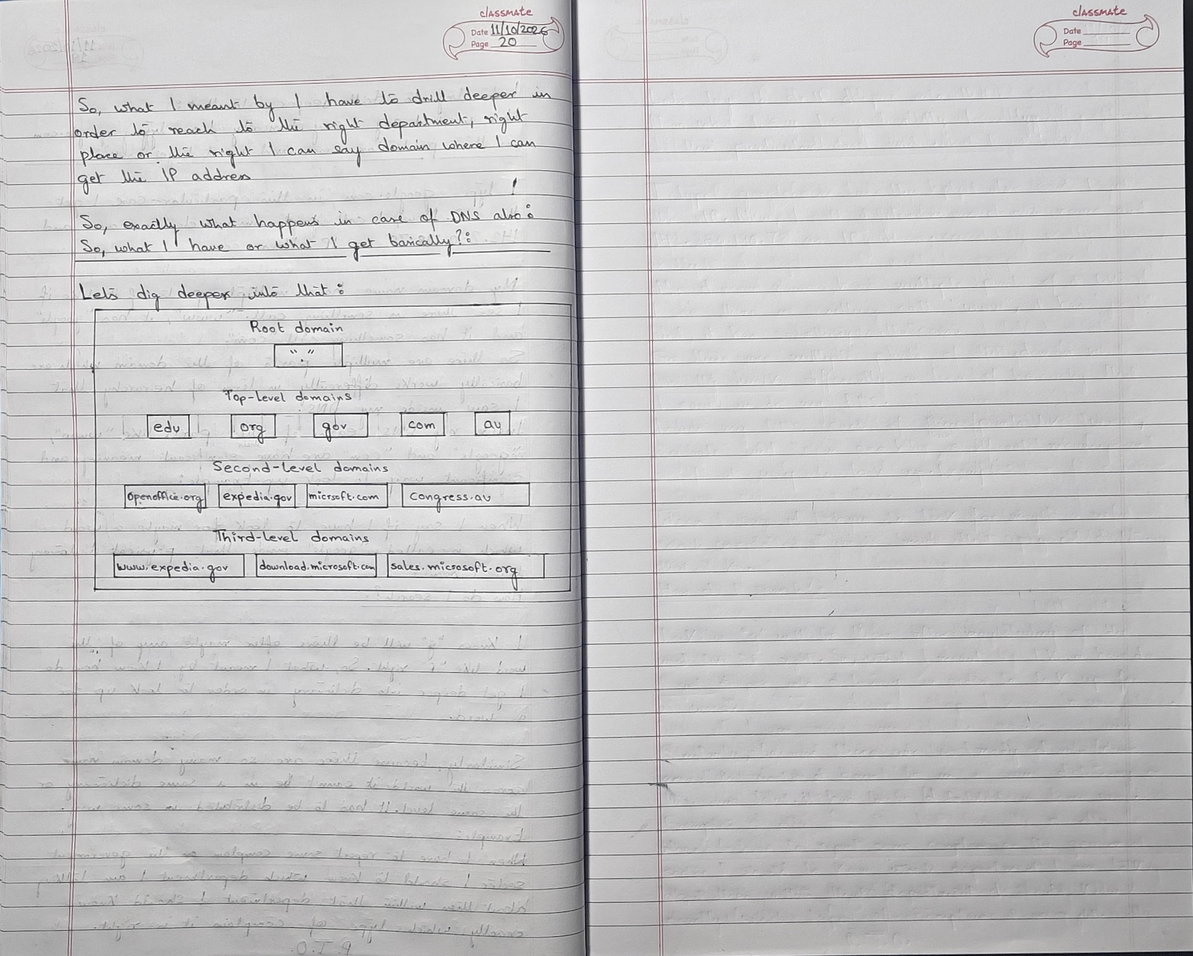
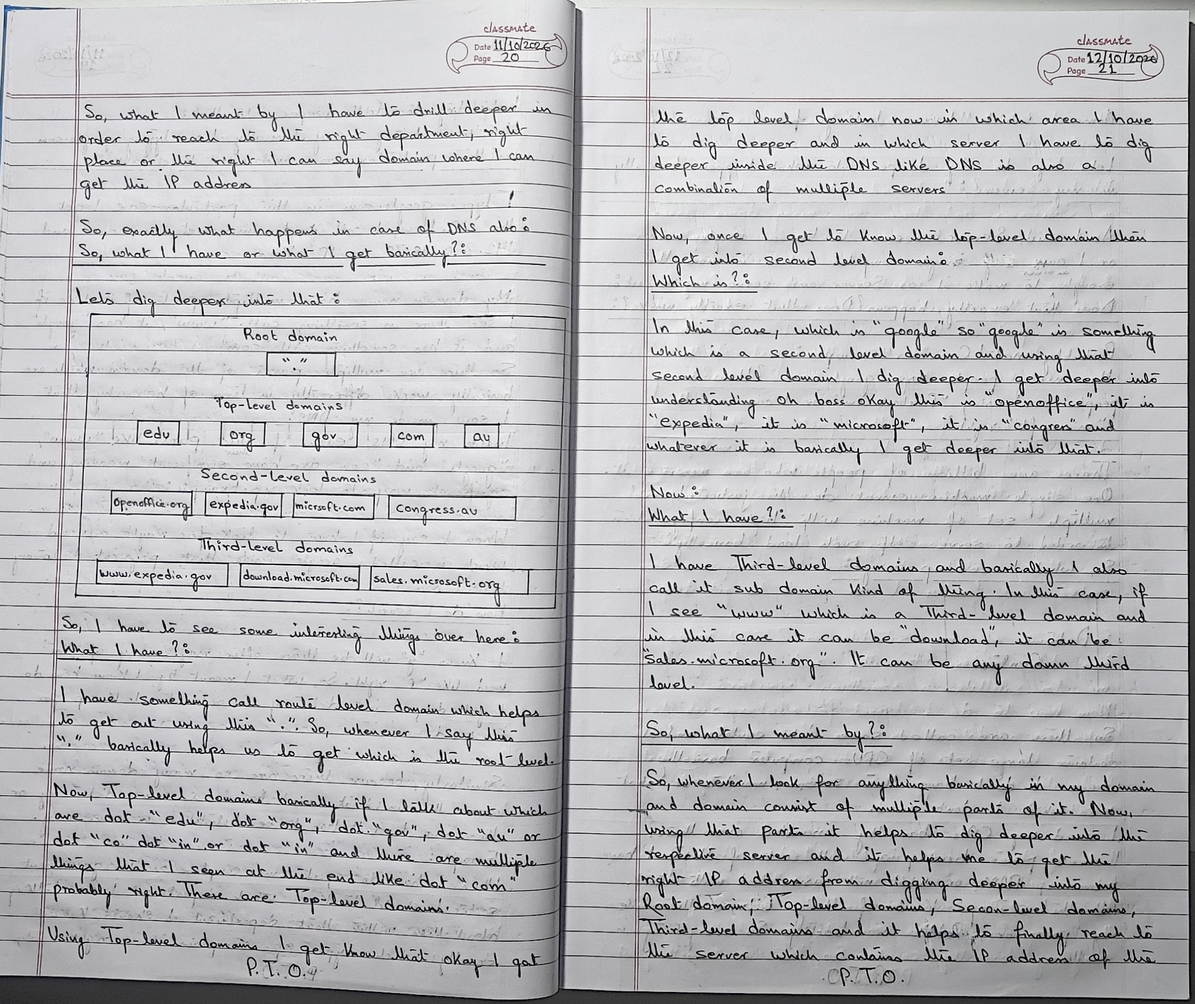
Expand web networking notes and add scans
Document DNS hierarchy, data centers, request routing, and satellite communication. Add numbered note scans and remove the original timestamp-named images.

Changed region(s): [[0.0, 0.0, 1.0, 1.0]]

diff --git a/src/networking/how-the-web-works/README.md b/src/networking/how-the-web-works/README.md
@@ -574,3 +574,214 @@ Third-level domains
 ```
 
 The handwritten diagram groups these names by **root domain**, **top-level domains**, **second-level domains**, and **third-level domains**. Examples are reproduced as written in the notebook.
+
+### Reaching the right domain
+
+So, what I meant by “drill deeper” is that, in order to reach the right department, the right place, or the right domain, I need to find the IP address.
+
+Exactly what happens in the case of DNS? What do I have, or what do I get?
+
+Let’s dig deeper into that.
+
+### DNS domain hierarchy diagram
+
+```text
+Root domain
+    "."
+     |
+     v
+Top-level domains
+  .edu   .org   .gov   .com   .au
+     |
+     v
+Second-level domains
+ openoffice.org   expedia.gov   microsoft.com   congress.au
+     |
+     v
+Third-level domains
+ www.expedia.gov   download.microsoft.com   sales.microsoft.org
+```
+
+### Root-level domain
+
+I have something called a **root-level domain**, represented by `"."`. It helps us get out to the root level. Whenever I refer to `"."`, it basically represents the root level.
+
+### Top-level domains (TLDs)
+
+Top-level domains are the endings I see in domain names, such as:
+
+- `.edu`
+- `.org`
+- `.gov`
+- `.au`
+- `.co`
+- `.in`
+- `.com`
+
+There are many such top-level domains.
+
+Using a top-level domain helps me understand where to dig deeper next and which server or part of DNS I need to query. DNS is also a combination of multiple servers.
+
+The top-level domain tells me which area I have to dig deeper into and which server I need to query inside DNS. DNS itself is also a combination of multiple servers.
+
+### Second-level domain
+
+Once I know the top-level domain, I get into the **second-level domain**.
+
+For example, in `google.com`, `google` is the second-level domain.
+
+Other examples mentioned in the notes include:
+
+- `openoffice.org`
+- `expedia.gov`
+- `microsoft.com`
+- `congress.au`
+
+The notes use `google` as an example of a second-level domain and explain that going into the second-level domain means digging deeper to understand the relevant part.
+
+### Third-level domain (subdomain)
+
+I also have **third-level domains**, which I can call subdomains.
+
+Examples shown in the notes:
+
+- `www.expedia.gov`
+- `download.microsoft.com`
+- `sales.microsoft.org`
+
+In these examples, `www`, `download`, and `sales` are third-level domain labels (subdomains).
+
+A domain can have a third-level label; it is not limited to only one possible third-level name.
+
+### What this hierarchy means
+
+Whenever I look for something in a domain, the domain consists of multiple parts. Using those parts helps me dig deeper into the respective server and eventually reach the right IP address.
+
+The hierarchy described in the notes is:
+
+1. Root domain
+2. Top-level domain
+3. Second-level domain
+4. Third-level domain
+
+This helps me finally reach the server that contains the IP address for the domain I am looking for.
+
+Let’s dig deeper into what happens inside a server.
+
+A server seems to be a single server, or I can say a single computer which is more than enough to handle requests. Does a server exactly work like that?
+
+Probably not.
+
+### Example: Popular websites
+
+Consider these questions:
+
+- How many people use `google.com`?
+- How many people use `facebook.com`?
+- How many people use Microsoft services?
+
+There are billions of people accessing these services. One single machine cannot do them justice. I need multiple machines, with high configurations, to serve that load.
+
+### Data centers
+
+```text
++------------------+
+|   Data Centers   |
++------------------+
+  Many machines / CPUs
+  Memory (RAM)
+  Storage
+  Processing capacity
+  Backup / power backup
+```
+
+There are data centers that contain large sets of CPUs and computers. These are not ordinary desktop setups with screens and monitors that I do not need for this purpose.
+
+Instead, I need CPUs and machines assembled together, power backup, memory, RAM, storage, and other resources associated with them. All the storage and processing resources are available across those machines.
+
+Consider a server or data center where there are multiple sets of machines or computers. These machines are mapped to a respective IP address, such as:
+
+```text
+142.250.190.78
+```
+
+Any request that comes to that IP address needs to be directed to the appropriate machine or set of machines.
+
+### Example: Looking for a particular application path
+
+In multiple cases, I might be looking for something like:
+
+```text
+/engineerchirag
+```
+
+Inside the machine, I may be looking for a specific path. For example, I build my application using Express, Node.js, Java, Servlets, or another technology.
+
+My application is running, and inside it I have defined my code to say what it should do or return when someone visits a particular path such as `/engineerchirag`.
+
+These things happen inside the application. I have control over how I write my code and what I want to return when people try to access those paths.
+
+### What happens behind the scenes?
+
+There are sets of machines mapped to a particular IP address. When a request comes in, it reaches that setup, and multiple things happen behind the scenes, such as **load balancing** and other request-routing operations.
+
+The goal is to route each request to the appropriate application or machine.
+
+Where are these servers located?
+
+Most of the time, I have heard that Google servers are in California, and there are many data servers across the world.
+
+Consider this example: I have a server that is very far away. Most of the servers I see might be in another part of the world, while I am in one location and trying to access them from somewhere else.
+
+What happens in that case?
+
+Accessing something from another part of the world can be difficult. There are multiple ways to connect.
+
+### Option 1: Satellite communication
+
+One way is through satellites. Wireless communication can happen through a satellite.
+
+The request flow described in the notes is:
+
+```text
+My device
+   |
+   | Request
+   v
+Satellite
+   |
+   v
+Data center / server
+   |
+   | Response
+   v
+Satellite
+   |
+   v
+My device
+```
+
+When I make a request, it goes to the satellite. From that satellite, it goes to the respective data center, and finally I receive the response.
+
+However, the satellite may be about **22,000 miles away from the data center**, and the distance from me to the satellite is also significant.
+
+How do I travel such a large distance over a wireless communication link? It can work, but there is a cost to that distance.
+
+### Problems with satellite communication
+
+Many things can affect the connection:
+
+- Bad weather
+- Wind
+- Other environmental obstacles
+- Other issues that affect wireless communication
+
+These obstacles can affect the reliability of the connection. Everything along the path matters.
+
+Satellite communication is not reliable enough for this particular way of communicating with a data center and accessing it from another part of the world.
+
+So, what can I do?
+
+Probably, another approach is to **bridge all of these data centers through some wired connectivity**.
+
+This continues the discussion of how servers and data centers communicate over long distances and how connectivity can be made more reliable.
